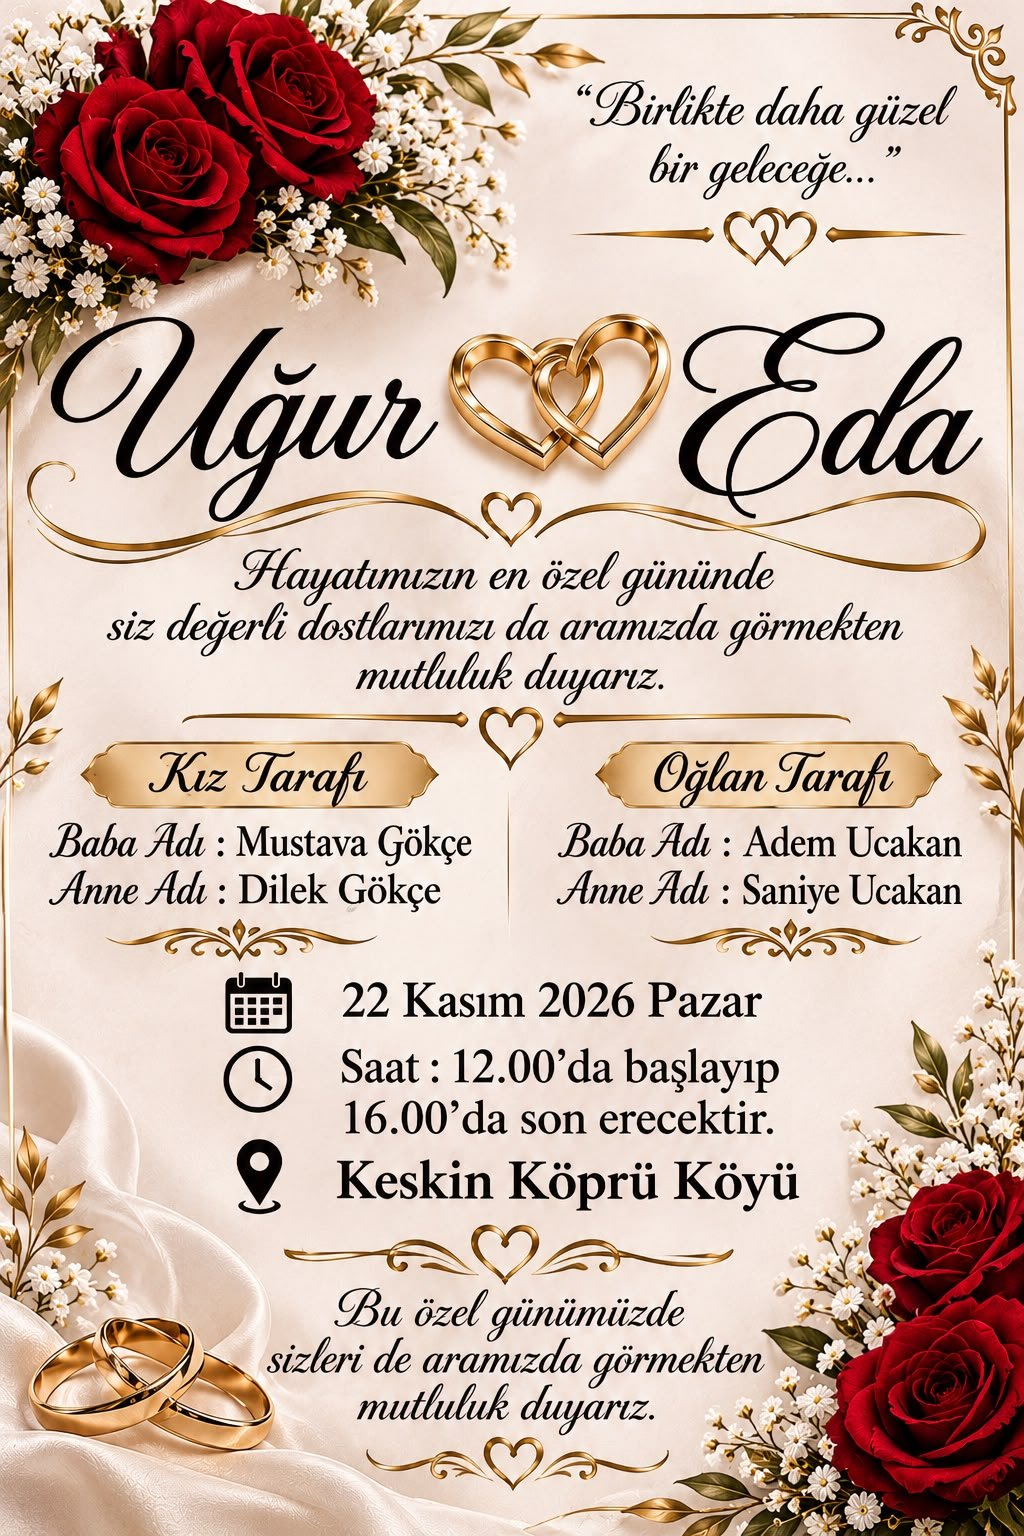
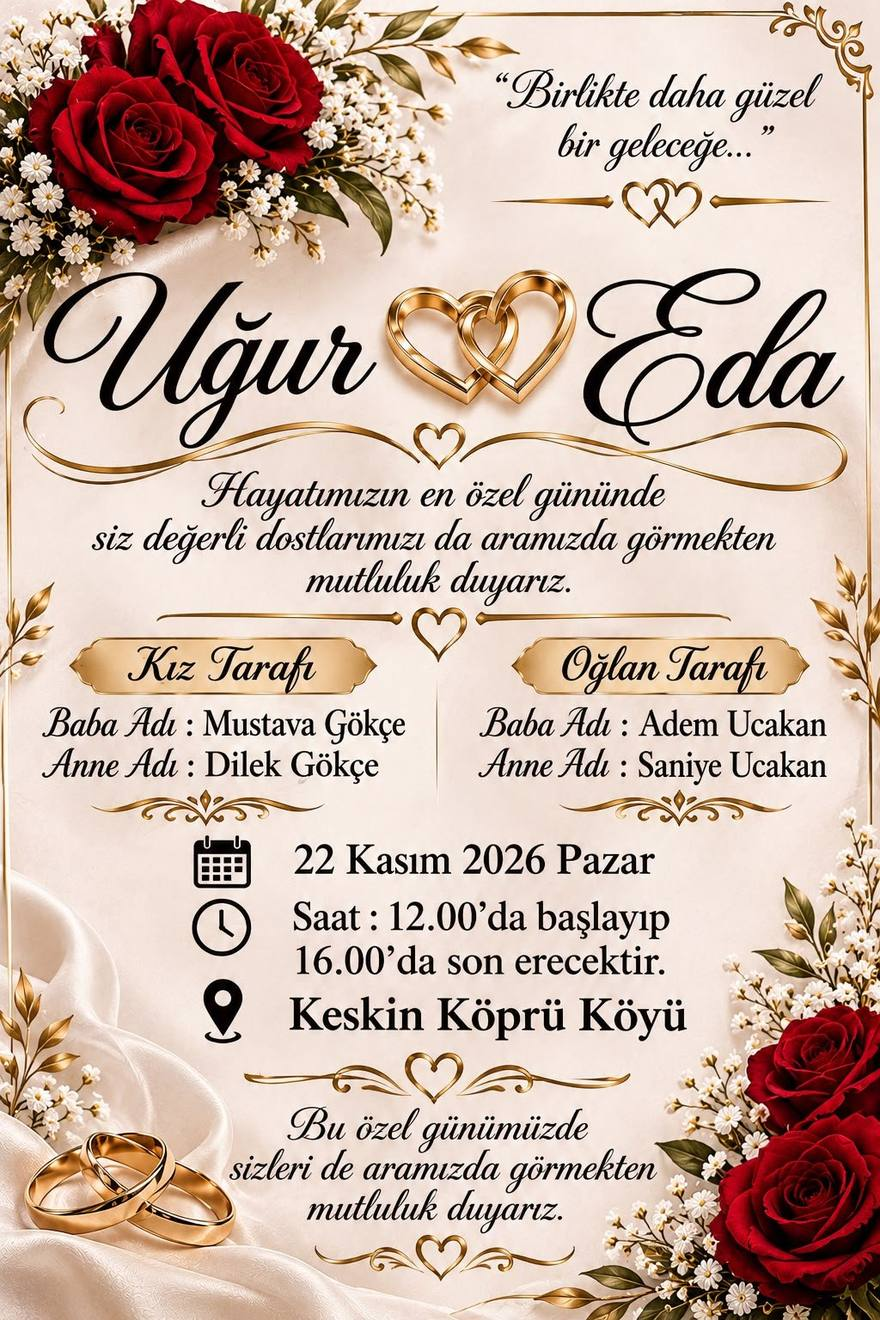
Paylaşımda fotoğraf: önizleme fotoğrafları 250 KB altına, paylaşım adreslerine sürüm eki
WhatsApp ~300 KB üstü önizleme fotoğrafını göstermiyor: Uğur-Eda düğün fotoğrafı 389 KB'tan 232 KB'a küçültüldü,
panel yüklenen fotoğrafları 250 KB altına inene kadar küçültüyor. Paylaşım bağlantısına ?v= eki eklendi;
önceden fotoğrafsız önbelleğe alınmış önizlemeler yenilenir.

Claude-Session: https://claude.ai/code/session_01Rnj2kT1kLYjidpkdWRLPwT

diff --git a/yonetim/admin.js b/yonetim/admin.js
@@ -208,14 +208,19 @@
     return new Promise(function (resolve, reject) {
       var url = URL.createObjectURL(file), img = new Image();
       img.onload = function () {
-        var max = 1600, w = img.naturalWidth, h = img.naturalHeight, k = Math.min(1, max / Math.max(w, h));
-        var cv = document.createElement('canvas');
-        cv.width = Math.round(w * k); cv.height = Math.round(h * k);
-        var ctx = cv.getContext('2d');
-        ctx.fillStyle = '#fff'; ctx.fillRect(0, 0, cv.width, cv.height);
-        ctx.drawImage(img, 0, 0, cv.width, cv.height);
+        // WhatsApp, paylaşım önizlemesinde ~300 KB'tan büyük fotoğrafı göstermiyor: 250 KB altına inene kadar küçült
+        var LIMIT = 250 * 1024, w = img.naturalWidth, h = img.naturalHeight, dataUrl = '';
+        var steps = [[1600, 0.82], [1400, 0.78], [1280, 0.74], [1100, 0.7], [960, 0.66], [800, 0.62]];
+        for (var i = 0; i < steps.length; i++) {
+          var k = Math.min(1, steps[i][0] / Math.max(w, h)), cv = document.createElement('canvas');
+          cv.width = Math.round(w * k); cv.height = Math.round(h * k);
+          var ctx = cv.getContext('2d');
+          ctx.fillStyle = '#fff'; ctx.fillRect(0, 0, cv.width, cv.height);
+          ctx.drawImage(img, 0, 0, cv.width, cv.height);
+          dataUrl = cv.toDataURL('image/jpeg', steps[i][1]);
+          if ((dataUrl.length - 23) * 3 / 4 <= LIMIT) break;
+        }
         URL.revokeObjectURL(url);
-        var dataUrl = cv.toDataURL('image/jpeg', 0.82);
         resolve({ preview: dataUrl, b64: dataUrl.split(',')[1] });
       };
       img.onerror = function () { URL.revokeObjectURL(url); reject({ status: 'photo' }); };

diff --git a/ortak.js b/ortak.js
@@ -193,6 +193,11 @@
     return (normIso(x.tarih) || 'x') + '-' + (slug(t).slice(0, 50) || { d: 'duyuru', e: 'etkinlik', i: 'ilan' }[key]);
   }
   function sharePath(key, id) { return 'p/' + key + '-' + id + '.html'; }
+  function shareVer(src) {
+    var h = 0, t = String(src || '').split('/').pop();
+    for (var i = 0; i < t.length; i++) h = (h * 31 + t.charCodeAt(i)) >>> 0;
+    return h.toString(36).slice(0, 6);
+  }
   function shareShort(t, n) {
     t = String(t || '').replace(/\s+/g, ' ').trim();
     return t.length > n ? t.slice(0, n).replace(/\s+\S*$/, '') + '…' : t;
@@ -228,7 +233,7 @@
     DUYURU_TURLERI: DUYURU_TURLERI, ETKINLIK_TURLERI: ETKINLIK_TURLERI, PAZAR_TURLERI: PAZAR_TURLERI,
     slug: slug, badgeClass: badgeClass, esc: esc, pad: pad, normIso: normIso, parts: parts,
     todayIso: todayIso, addDays: addDays, daysBetween: daysBetween, longDate: longDate, relDate: relDate,
-    SHARE_COLS: SHARE_COLS, shareId: shareId, sharePath: sharePath, sharePage: sharePage,
+    SHARE_COLS: SHARE_COLS, shareId: shareId, sharePath: sharePath, shareVer: shareVer, sharePage: sharePage,
     untilText: untilText, imgSrc: imgSrc, linkUrl: linkUrl, telHref: telHref, waHref: waHref, arr: arr,
     ytEmbed: ytEmbed, ytFrame: ytFrame, bindShare: bindShare, warmShare: warmShare
   };

diff --git a/index.html b/index.html
@@ -17,7 +17,7 @@
 <link rel="preconnect" href="https://fonts.googleapis.com">
 <link rel="preconnect" href="https://fonts.gstatic.com" crossorigin>
 <link rel="stylesheet" href="https://fonts.googleapis.com/css2?family=Merriweather:wght@700;900&family=Source+Sans+3:wght@400;600;700&display=swap">
-<link rel="stylesheet" href="site.css?v=20261121m">
+<link rel="stylesheet" href="site.css?v=20261121n">
 </head>
 <body>
 <a class="skip" href="#icerik">İçeriğe geç</a>
@@ -100,7 +100,7 @@
 </div>
 
 <noscript><p style="padding:24px;text-align:center">Bu sayfayı görmek için tarayıcınızda JavaScript açık olmalıdır.</p></noscript>
-<script src="ortak.js?v=20261121m"></script>
-<script src="app.js?v=20261121m"></script>
+<script src="ortak.js?v=20261121n"></script>
+<script src="app.js?v=20261121n"></script>
 </body>
 </html>

diff --git a/app.js b/app.js
@@ -88,7 +88,8 @@
   // Fotoğrafı olan kaydın bağlantısı kendi paylaşım sayfasına gider (p/…html): WhatsApp ve Facebook önizlemede o fotoğrafı gösterir.
   function shareUrl(o) {
     var base = location.href.split(/[?#]/)[0].replace(/[^\/]*$/, '');
-    return o.photo ? base + C.sharePath(o.key, o.id) : base + '?' + o.key + '=' + encodeURIComponent(o.id);
+    // ?v=…: fotoğraf değişince adres de değişir; WhatsApp/Facebook eski (fotoğrafsız) önizlemeyi önbellekten göstermez
+    return o.photo ? base + C.sharePath(o.key, o.id) + '?v=' + C.shareVer(o.photo) : base + '?' + o.key + '=' + encodeURIComponent(o.id);
   }
   function shareButtons(o, big) {
     var url = shareUrl(o), text = (o.tur ? upper(o.tur) + ': ' : '') + (o.title || '') + (o.det ? '\n' + o.det : '') + '\n' + url;

diff --git a/yonetim/index.html b/yonetim/index.html
@@ -65,7 +65,7 @@
 </div>
 
 <noscript><p style="padding:24px;text-align:center">Bu sayfa için tarayıcınızda JavaScript açık olmalıdır.</p></noscript>
-<script src="../ortak.js?v=20261121i"></script>
-<script src="admin.js?v=20261121i"></script>
+<script src="../ortak.js?v=20261121n"></script>
+<script src="admin.js?v=20261121n"></script>
 </body>
 </html>
